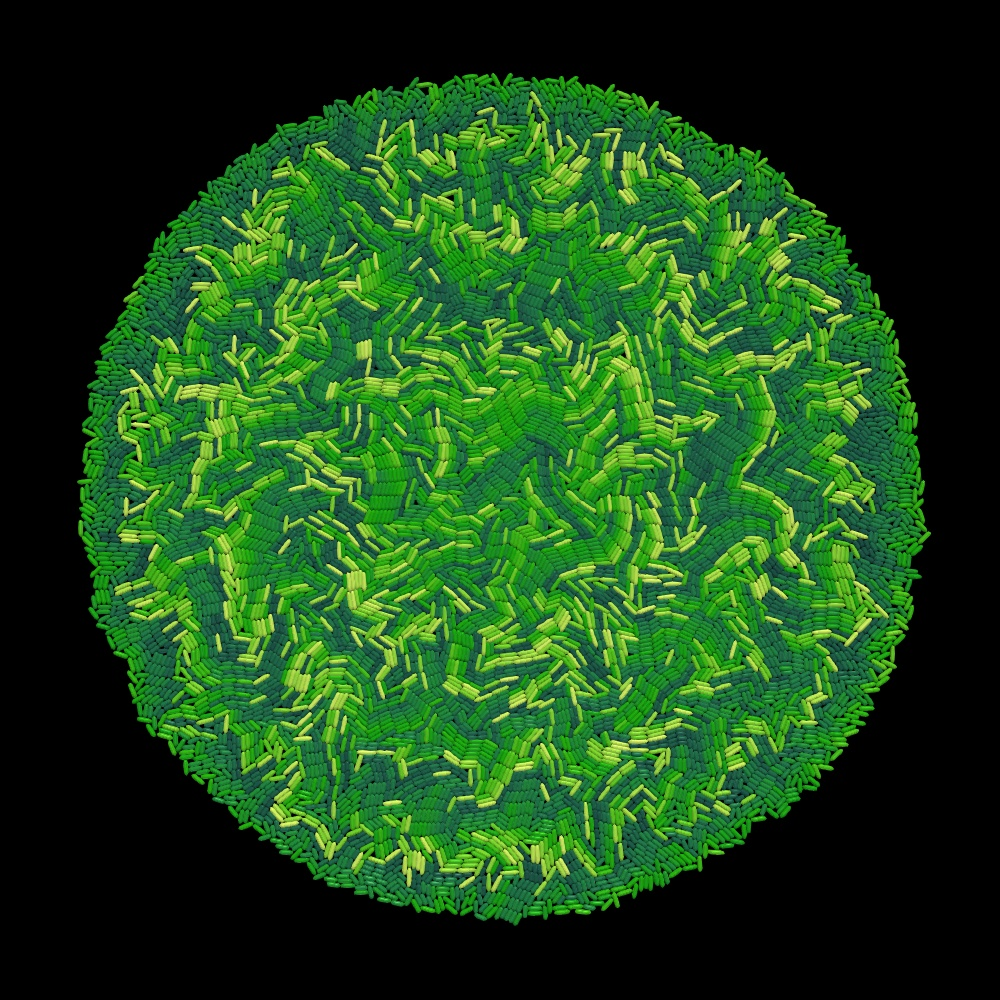
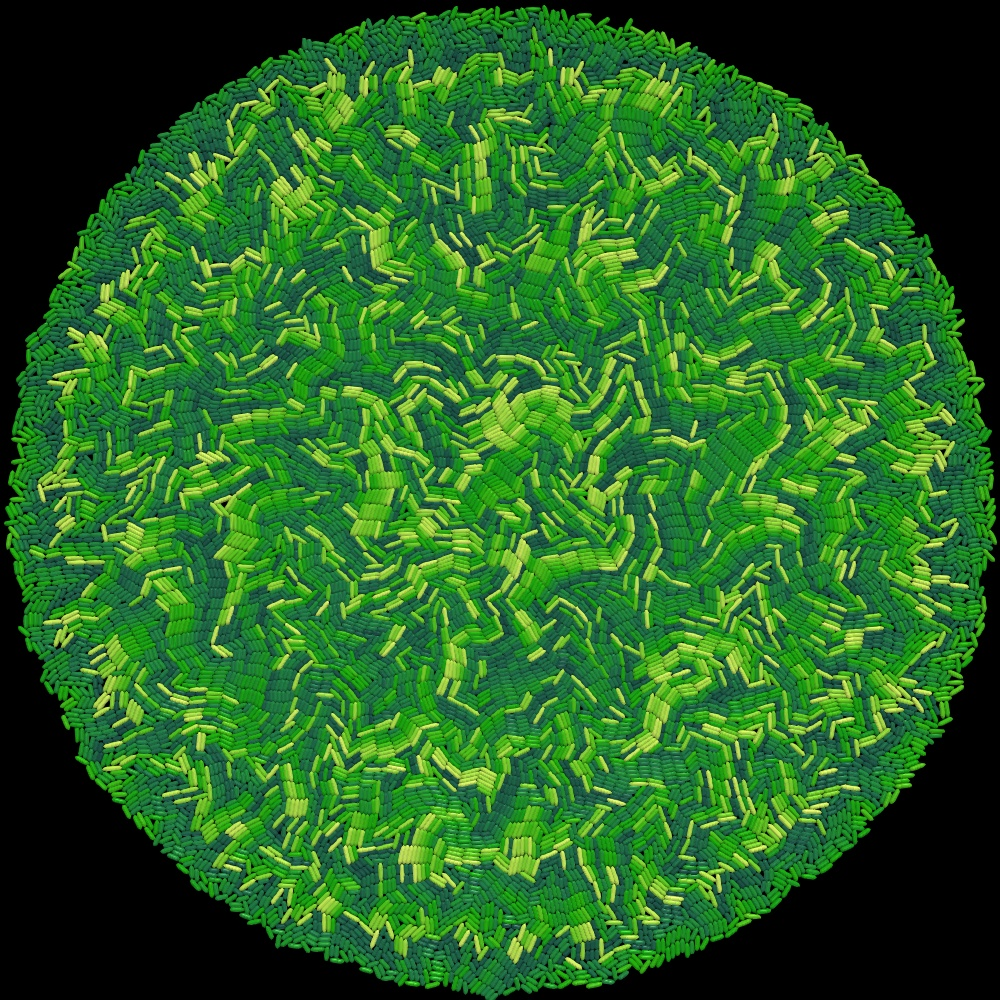
add packing images

diff --git a/latex/cell-collectives.tex b/latex/cell-collectives.tex
@@ -36,7 +36,7 @@
 
 % Macro for growth comparison row
 \newlength{\subfigwidth}
-\setlength{\subfigwidth}{0.20\textwidth}
+\setlength{\subfigwidth}{0.2\textwidth}
 \newcolumntype{M}[1]{>{\centering\arraybackslash}m{#1}}
 
 \newcommand{\growthcomparisonrow}[6]{%
@@ -327,6 +327,7 @@ This suggests that, for the purpose of reproducing such patterns, the soft colli
 
     % Lambda = 10^-1 comparison
     \begin{subfigure}[b]{\textwidth}
+        \centering
         \caption{Growth Comparison $\lambda=10^{-1}$}
         \begin{tabular}{r M{\subfigwidth} M{\subfigwidth} M{\subfigwidth} M{\subfigwidth}}
             \growthcomparisonrow{Hard}{1e-1}{0400}{0800}{1200}{1800}
@@ -336,6 +337,7 @@ This suggests that, for the purpose of reproducing such patterns, the soft colli
 
     % % Lambda = 10^-2 comparison
     \begin{subfigure}[b]{\textwidth}
+        \centering
         \caption{Growth Comparison $\lambda=10^{-2}$}
         \begin{tabular}{r M{\subfigwidth} M{\subfigwidth} M{\subfigwidth} M{\subfigwidth}}
             \growthcomparisonrow{Hard}{1e-2}{0400}{0700}{0900}{1100}
@@ -345,6 +347,7 @@ This suggests that, for the purpose of reproducing such patterns, the soft colli
 
     % Lambda = 10^-3 comparison
     \begin{subfigure}[b]{\textwidth}
+        \centering
         \caption{Growth Comparison $\lambda=10^{-3}$}
         \begin{tabular}{r M{\subfigwidth} M{\subfigwidth} M{\subfigwidth} M{\subfigwidth}}
             \growthcomparisonrow{Hard}{1e-3}{0400}{0600}{0800}{1000}
@@ -370,7 +373,7 @@ This suggests that, for the purpose of reproducing such patterns, the soft colli
 
 For a more quantitative comparison, we analyze the following metrics: \textit{radial distribution of stress}, \textit{radial distribution of packing fraction} and \textit{maximum overlap}.
 
-Figures~\ref{figure:radial_distribution_stress}--\ref{figure:max_overlap_simulation} illustrate these results in detail. Those figures confirm that altough certain quantities, such as the packing fraction, and thus the maximum overlap, are different between the two models, the overall macroscopic behavior is similar as previously anayzed in \autoref{fig:pattern_formation}.
+Figures~\ref{figure:radial_distribution_stress}--\ref{figure:max_overlap_simulation} illustrate these results in detail. Those figures confirm that altough certain quantities, such as the packing fraction, and thus the maximum overlap, are different between the two models (See \autoref{fig:dense_packing_comparison}), the overall macroscopic behavior is similar as previously anayzed in \autoref{fig:pattern_formation}.
 
 
 \begin{figure}[h]
@@ -395,7 +398,22 @@ Figures~\ref{figure:radial_distribution_stress}--\ref{figure:max_overlap_simulat
 \end{figure}
 
 
-
+\begin{figure}
+    \centering
+    \begin{subfigure}[b]{0.49\columnwidth}
+        \centering
+        \includegraphics[width=\linewidth]{figures/comparisons/packing_hard.jpeg}
+        \caption{Close up of the particle packing for the hard model.}
+        \label{fig:sensor3}
+    \end{subfigure}
+    \begin{subfigure}[b]{0.49\columnwidth}
+        \centering
+        \includegraphics[width=\linewidth]{figures/comparisons/packing_soft.jpeg}
+        \caption{Close up of the particle packing for the soft model.}
+        \label{fig:tiger}
+    \end{subfigure}
+    \caption{Close up of the particle packing for the hard and soft collision models. The soft model exhibits denser packing with slightly overlapping particles.} \label{fig:dense_packing_comparison}
+\end{figure}
 
 
 

diff --git a/README.md b/README.md
@@ -2,8 +2,8 @@
 
 Bacteria Growth using Hard Model             |  Bacteria Growth using Soft Model
 :-------------------------:|:-------------------------:
-![Hard Model](latex/figures/growth_comparison_lambda_1e-2/hard.0100.png) | ![Soft Model](latex/figures/growth_comparison_lambda_1e-2/soft.0100.png)
-$\lambda = 10^{-2}$, $R_{end} = 40$ | $\lambda = 10^{-2}$, $R_{end} = 40$
+![Hard Model](latex/figures/growth_comparison_lambda_1e-2/hard_1e-2.1100.jpeg) | ![Soft Model](latex/figures/growth_comparison_lambda_1e-2/soft_1e-2.1100.jpeg)
+$\lambda = 10^{-2}$, $R_{end} = 50$ | $\lambda = 10^{-2}$, $R_{end} = 50$
 
 ## Abstract
 
